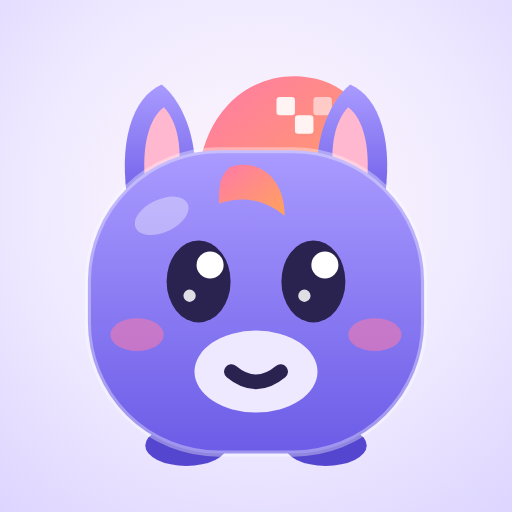
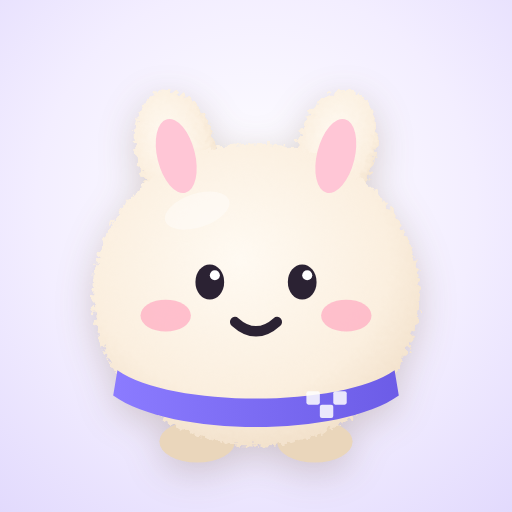
Squarely becomes a soft cream plush buddy
The purple pony with big glossy eyes read as a little demon. Now it's a fuzzy
cream plush (in the spirit of friendly AI mascots like Meta's Jolly): soft bunny-
bear ears, beady eyes, rosy cheeks and a purple scarf with a tiny chessboard, so
it's still ours. Same moods; favicon, app icon and banner regenerated.

diff --git a/src/ui/Avatar.tsx b/src/ui/Avatar.tsx
@@ -1,10 +1,10 @@
-// Squarely, the character: a squishy little pony-ish creature (a friendly nod to the knight) with a
-// punky mane, big shiny eyes and a soft snout. Its face follows the conversation:
-// idle (blinks, floats), listening (eyes wide, ears up), talking (mouth follows the real voice level),
-// thinking (eyes up), worried (tutor stepped in), happy (praise or a win), sleeping.
+// Squarely, the character: a soft, fuzzy cream plush with little bunny-bear ears, beady eyes, rosy
+// cheeks and a purple scarf with a tiny chessboard on it. Its face follows the conversation:
+// idle (blinks, floats), listening (ears perk, eyes a touch bigger), talking (mouth follows the real
+// voice level), thinking (eyes up), worried (tutor stepped in), happy (praise or a win), sleeping.
 import { useId } from 'react'
 
-const INK = '#2a2350'
+const INK = '#2b2233'
 
 export type Mood = 'idle' | 'listening' | 'talking' | 'thinking' | 'worried' | 'happy' | 'sleeping'
 
@@ -12,99 +12,100 @@ type Props = { mood: Mood; level?: number; size?: number; className?: string }
 
 export function Avatar({ mood, level = 0, size = 80, className = '' }: Props) {
   const uid = useId().replace(/:/g, '')
-  const body = `sq-body-${uid}`
-  const mane = `sq-mane-${uid}`
+  const fur = `sq-fur-${uid}`
+  const plush = `sq-plush-${uid}`
+  const scarf = `sq-scarf-${uid}`
   // Mouth opening follows the voice level while talking.
-  const open = mood === 'talking' ? 2.5 + Math.min(1, level * 6) * 9 : 0
-  const eyeY = mood === 'thinking' ? 51 : 54
-  const lookX = mood === 'thinking' ? 2 : 0
-  const lookY = mood === 'thinking' ? -2 : 0
-  const eyeR = mood === 'listening' ? 11 : 10
+  const open = mood === 'talking' ? 2 + Math.min(1, level * 6) * 6 : 0
+  const eyeY = mood === 'thinking' ? 52 : 55
+  const lookX = mood === 'thinking' ? 1.5 : 0
+  const eyeR = mood === 'listening' ? 4.4 : 3.8
   return (
     <svg className={`avatar mood-${mood} ${className}`} width={size} height={size} viewBox="0 0 100 100" aria-hidden>
       <defs>
-        <linearGradient id={body} x1="0" y1="0" x2="0" y2="1">
-          <stop offset="0" stopColor="var(--av-top, #a99bff)" />
+        {/* soft fur: a gentle wobble on the outline only */}
+        <filter id={fur} x="-10%" y="-10%" width="120%" height="120%">
+          <feTurbulence type="fractalNoise" baseFrequency="0.85" numOctaves="2" seed="3" />
+          <feDisplacementMap in="SourceGraphic" scale="2.6" xChannelSelector="R" yChannelSelector="G" />
+        </filter>
+        <radialGradient id={plush} cx="45%" cy="38%" r="70%">
+          <stop offset="0" stopColor="#fffaf2" />
+          <stop offset="0.65" stopColor="#fbefdf" />
+          <stop offset="1" stopColor="#efdcc4" />
+        </radialGradient>
+        <linearGradient id={scarf} x1="0" y1="0" x2="1" y2="0">
+          <stop offset="0" stopColor="var(--av-top, #8b7bff)" />
           <stop offset="1" stopColor="var(--av-bottom, #6c5ce7)" />
-        </linearGradient>
-        <linearGradient id={mane} x1="0" y1="0" x2="1" y2="1">
-          <stop offset="0" stopColor="#ff7aa8" />
-          <stop offset="1" stopColor="#ffa25c" />
         </linearGradient>
       </defs>
       <g className="av-body">
         {/* little feet */}
-        <ellipse cx="33" cy="94" rx="10" ry="5" fill="#5546cf" />
-        <ellipse cx="67" cy="94" rx="10" ry="5" fill="#5546cf" />
-        {/* a swoopy pony quiff behind the head, with a tiny chessboard in it */}
-        <g className="av-mane">
-          <path d="M36 40 C33 16 46 3 61 4 C73 5 80 14 77 27 L75 40 Z" fill={`url(#${mane})`} />
-          <rect x="55" y="9" width="4.5" height="4.5" rx="0.8" fill="#fff" opacity="0.9" />
-          <rect x="59.5" y="13.5" width="4.5" height="4.5" rx="0.8" fill="#fff" opacity="0.9" />
-          <rect x="64" y="9" width="4.5" height="4.5" rx="0.8" fill="#fff" opacity="0.55" />
+        <ellipse cx="36" cy="93" rx="9" ry="5" fill="#ead6bb" />
+        <ellipse cx="64" cy="93" rx="9" ry="5" fill="#ead6bb" />
+        <g filter={`url(#${fur})`}>
+          {/* soft ears, pink inside; they perk up when listening */}
+          <g className="av-ears">
+            <ellipse cx="31" cy="24" rx="9.5" ry="15" fill={`url(#${plush})`} transform="rotate(-14 31 24)" />
+            <ellipse cx="69" cy="24" rx="9.5" ry="15" fill={`url(#${plush})`} transform="rotate(14 69 24)" />
+          </g>
+          {/* round, squishy body */}
+          <ellipse cx="50" cy="58" rx="39" ry="36" fill={`url(#${plush})`} />
         </g>
-        {/* ears (pony), pink inside; they perk up when listening */}
-        <g className="av-ears">
-          <path d="M19 36 C16 20 20 9 27 6 C33 11 36 21 35 31 Z" fill={`url(#${body})`} />
-          <path d="M23 30 C22 21 24 14 27.5 11.5 C31 15 32 22 31 28 Z" fill="#ffb8d0" />
-          <path d="M81 36 C84 20 80 9 73 6 C67 11 64 21 65 31 Z" fill={`url(#${body})`} />
-          <path d="M77 30 C78 21 76 14 72.5 11.5 C69 15 68 22 69 28 Z" fill="#ffb8d0" />
+        <ellipse cx="31" cy="25" rx="4.5" ry="9" fill="#ffc6d6" transform="rotate(-14 31 25)" className="av-ear-in" />
+        <ellipse cx="69" cy="25" rx="4.5" ry="9" fill="#ffc6d6" transform="rotate(14 69 25)" className="av-ear-in" />
+        {/* a purple scarf with a tiny chessboard */}
+        <path d="M17 76 C30 85 70 85 83 76 L84 82 C70 92 30 92 16 82 Z" fill={`url(#${scarf})`} />
+        <g fill="#fff" opacity="0.85">
+          <rect x="62" y="81" width="3.2" height="3.2" rx="0.5" />
+          <rect x="65.2" y="84.2" width="3.2" height="3.2" rx="0.5" />
+          <rect x="68.4" y="81" width="3.2" height="3.2" rx="0.5" />
         </g>
-        {/* squishy rounded-square body */}
-        <rect x="9" y="22" width="82" height="74" rx="32" fill={`url(#${body})`} />
-        <rect x="9" y="22" width="82" height="74" rx="32" fill="none" stroke="rgba(255,255,255,0.35)" strokeWidth="1.5" />
-        {/* forelock falling over the forehead */}
-        <path className="av-mane" d="M44 26 C51 24 57 29 57 38 C52 34 47 33 41 35 C41 31 41 28 44 26 Z" fill={`url(#${mane})`} />
-        {/* small soft snout */}
-        <ellipse cx="50" cy="76" rx="15" ry="10" fill="#efe9ff" />
-        {/* shine */}
-        <ellipse cx="27" cy="38" rx="7" ry="4" fill="#fff" opacity="0.35" transform="rotate(-25 27 38)" />
+        {/* soft light on the head */}
+        <ellipse cx="36" cy="38" rx="8" ry="4" fill="#fff" opacity="0.4" transform="rotate(-18 36 38)" />
       </g>
       <g className="av-eyes">
         {mood === 'sleeping' || mood === 'happy' ? (
           <>
-            <path d={mood === 'happy' ? 'M29 56 q7 -9 14 0' : 'M29 54 q7 5 14 0'} stroke={INK} strokeWidth="4" fill="none" strokeLinecap="round" />
-            <path d={mood === 'happy' ? 'M57 56 q7 -9 14 0' : 'M57 54 q7 5 14 0'} stroke={INK} strokeWidth="4" fill="none" strokeLinecap="round" />
+            <path d={mood === 'happy' ? 'M35 56 q4 -5 8 0' : 'M35 55 q4 3 8 0'} stroke={INK} strokeWidth="2.6" fill="none" strokeLinecap="round" />
+            <path d={mood === 'happy' ? 'M57 56 q4 -5 8 0' : 'M57 55 q4 3 8 0'} stroke={INK} strokeWidth="2.6" fill="none" strokeLinecap="round" />
           </>
         ) : (
           <>
             <g className="av-eye">
-              <ellipse cx={36 + lookX} cy={eyeY + lookY} rx={eyeR * 0.78} ry={eyeR} fill={INK} />
-              <circle cx={38.8 + lookX} cy={eyeY + lookY - 4} r="3.3" fill="#fff" />
-              <circle cx={33.8 + lookX} cy={eyeY + lookY + 3.5} r="1.5" fill="#fff" opacity="0.85" />
+              <ellipse cx={39 + lookX} cy={eyeY} rx={eyeR * 0.9} ry={eyeR * 1.1} fill={INK} />
+              <circle cx={40.2 + lookX} cy={eyeY - 1.6} r="1.2" fill="#fff" />
             </g>
             <g className="av-eye">
-              <ellipse cx={64 + lookX} cy={eyeY + lookY} rx={eyeR * 0.78} ry={eyeR} fill={INK} />
-              <circle cx={66.8 + lookX} cy={eyeY + lookY - 4} r="3.3" fill="#fff" />
-              <circle cx={61.8 + lookX} cy={eyeY + lookY + 3.5} r="1.5" fill="#fff" opacity="0.85" />
+              <ellipse cx={61 + lookX} cy={eyeY} rx={eyeR * 0.9} ry={eyeR * 1.1} fill={INK} />
+              <circle cx={62.2 + lookX} cy={eyeY - 1.6} r="1.2" fill="#fff" />
             </g>
           </>
         )}
         {mood === 'worried' && (
           <>
-            <path d="M29 40 l11 -4" stroke={INK} strokeWidth="3.2" strokeLinecap="round" />
-            <path d="M71 40 l-11 -4" stroke={INK} strokeWidth="3.2" strokeLinecap="round" />
+            <path d="M34 47 l8 -2.5" stroke={INK} strokeWidth="2.2" strokeLinecap="round" />
+            <path d="M66 47 l-8 -2.5" stroke={INK} strokeWidth="2.2" strokeLinecap="round" />
           </>
         )}
       </g>
       <g className="av-mouth">
         {mood === 'talking' ? (
-          <rect x={50 - 7} y={78 - open / 2} width="14" height={Math.max(3.5, open)} rx={Math.min(7, Math.max(1.8, open / 2))} fill={INK} />
+          <ellipse cx="50" cy={66 + open / 4} rx="4" ry={Math.max(1.6, open / 2)} fill="#c2405f" stroke={INK} strokeWidth="1.6" />
         ) : mood === 'worried' ? (
-          <path d="M44 81 q6 -5 12 0" stroke={INK} strokeWidth="3.6" fill="none" strokeLinecap="round" />
+          <path d="M45.5 68 q4.5 -3.5 9 0" stroke={INK} strokeWidth="2.4" fill="none" strokeLinecap="round" />
         ) : mood === 'thinking' ? (
-          <path d="M45 79 h10" stroke={INK} strokeWidth="3.6" strokeLinecap="round" />
+          <path d="M46.5 66.5 h7" stroke={INK} strokeWidth="2.4" strokeLinecap="round" />
         ) : mood === 'listening' ? (
-          <ellipse cx="50" cy="78" rx="4" ry="3.6" fill={INK} />
+          <ellipse cx="50" cy="66.5" rx="2.6" ry="2.2" fill={INK} />
         ) : mood === 'happy' ? (
-          <path d="M42 75 q8 10 16 0 z" fill={INK} stroke={INK} strokeWidth="2.5" strokeLinejoin="round" />
+          <path d="M44 64.5 q6 7 12 0 z" fill="#c2405f" stroke={INK} strokeWidth="2.2" strokeLinejoin="round" />
         ) : (
-          <path d="M44 76 q6 5 12 0" stroke={INK} strokeWidth="3.6" fill="none" strokeLinecap="round" />
+          <path d="M45 64.5 q5 4.5 10 0" stroke={INK} strokeWidth="2.4" fill="none" strokeLinecap="round" />
         )}
         {mood !== 'worried' && mood !== 'thinking' && (
           <>
-            <ellipse cx="21" cy="67" rx="6.5" ry="4" fill="rgba(255,122,168,0.55)" />
-            <ellipse cx="79" cy="67" rx="6.5" ry="4" fill="rgba(255,122,168,0.55)" />
+            <ellipse cx="28.5" cy="63" rx="6" ry="3.8" fill="#ffadc3" opacity="0.75" />
+            <ellipse cx="71.5" cy="63" rx="6" ry="3.8" fill="#ffadc3" opacity="0.75" />
           </>
         )}
       </g>

diff --git a/src/index.css b/src/index.css
@@ -735,3 +735,4 @@ a { color: var(--tint); }
   :root { --board-w: min(calc(100dvh - 190px), calc(100vw - 920px)); }
 }
 @media (min-width: 900px) { .board-wrap .board { max-width: none; } }
+.avatar { filter: drop-shadow(0 3px 5px rgba(90, 60, 30, 0.18)); }
